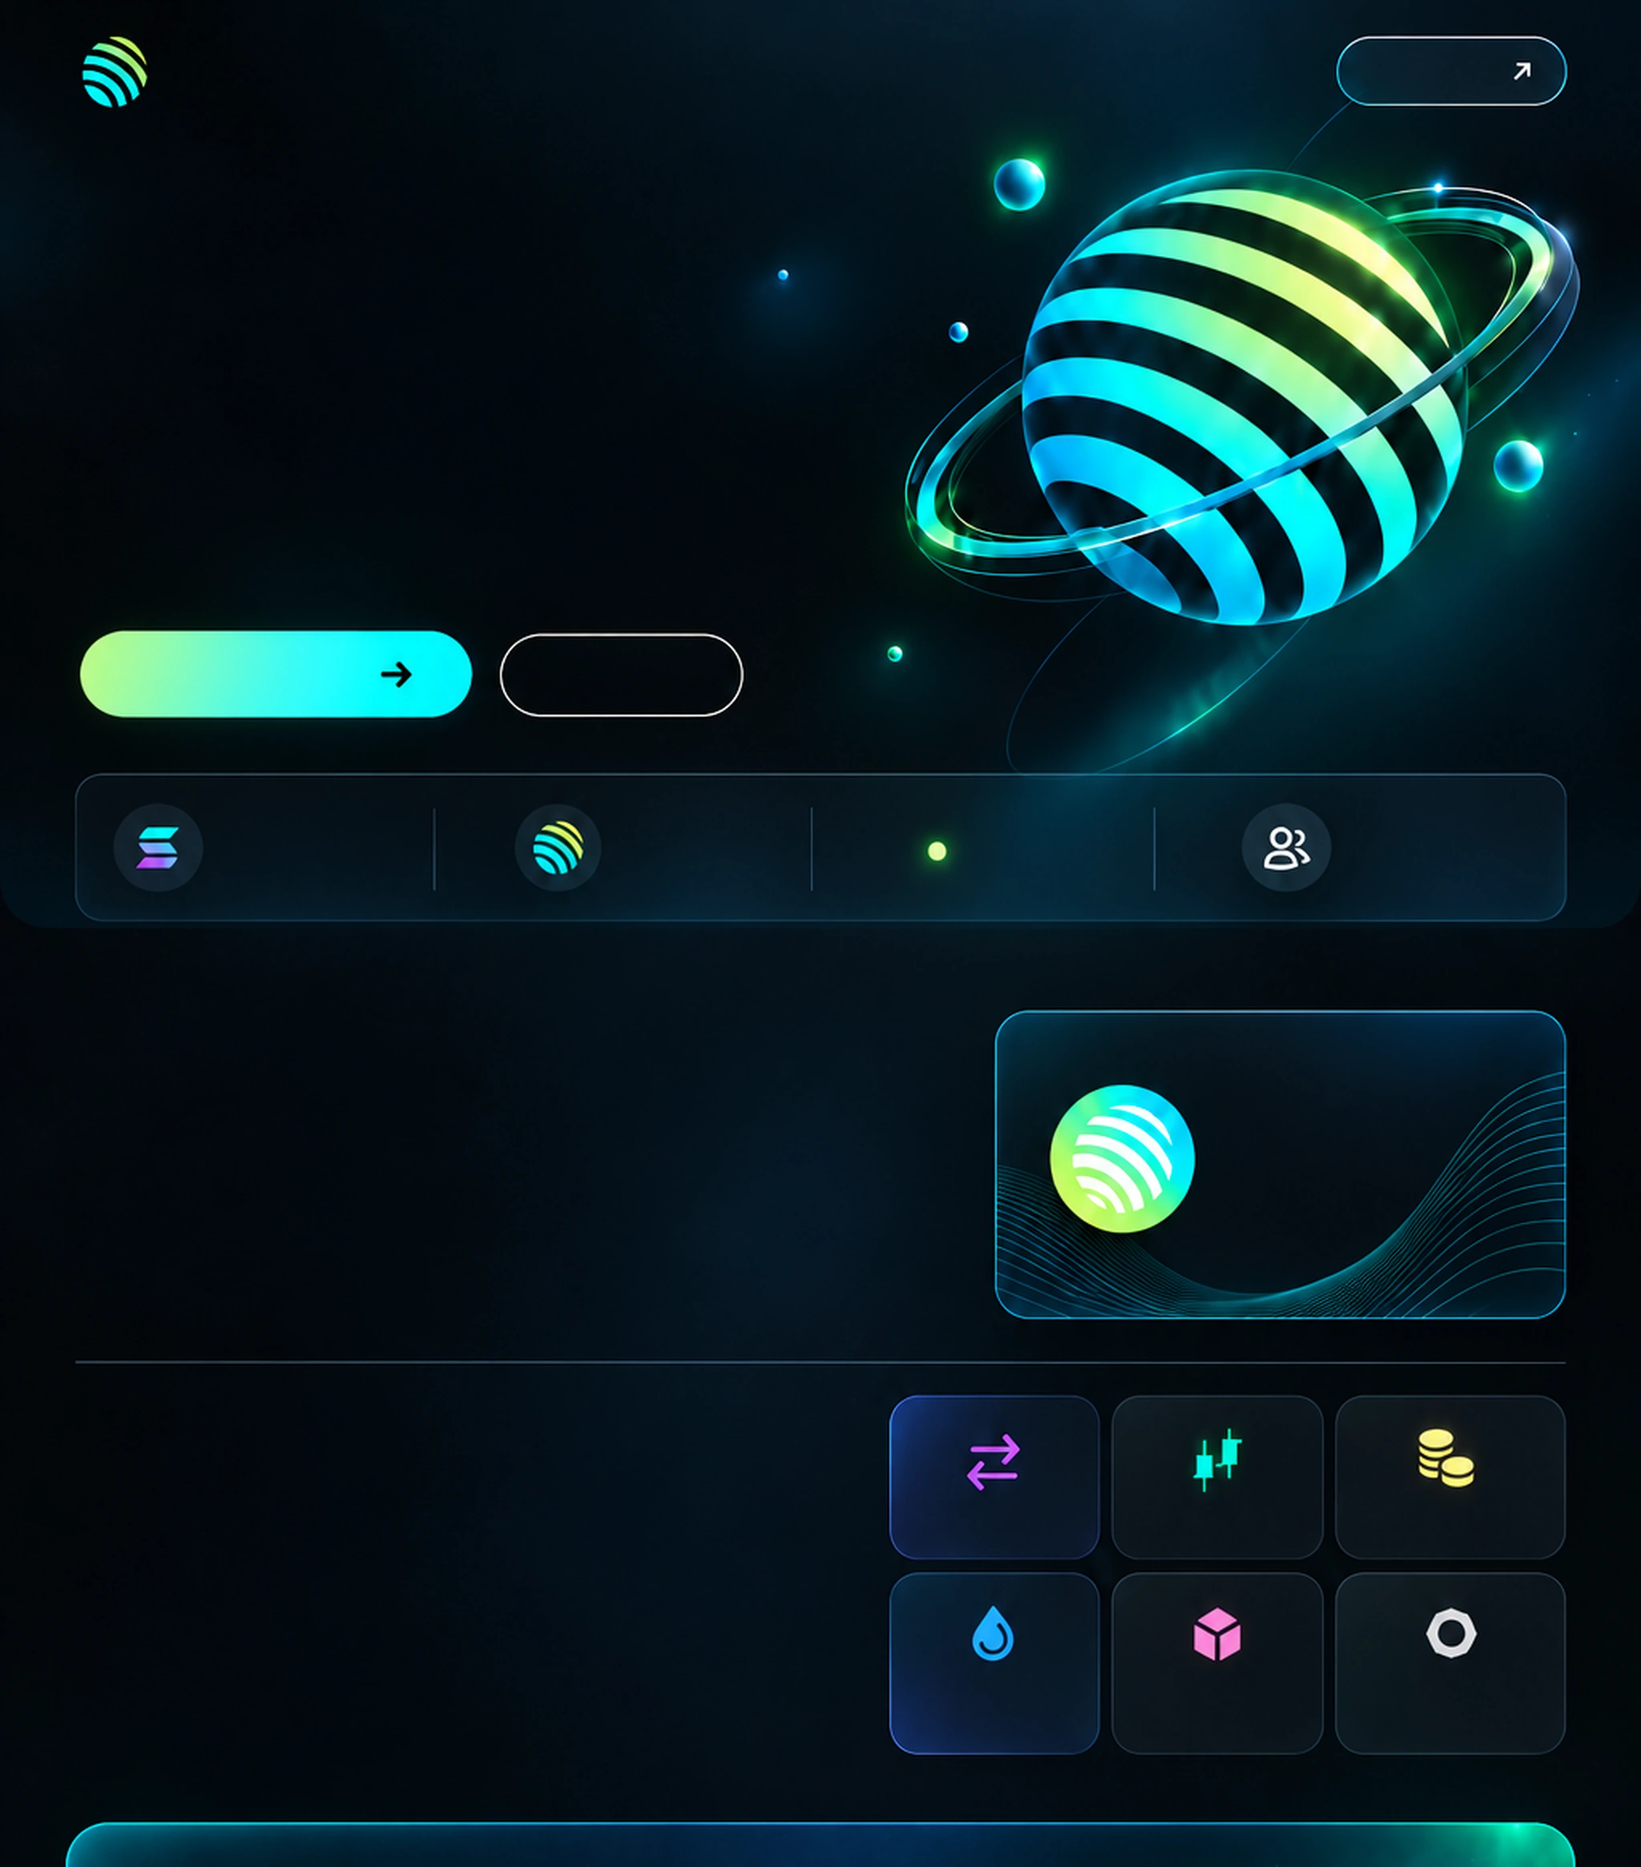
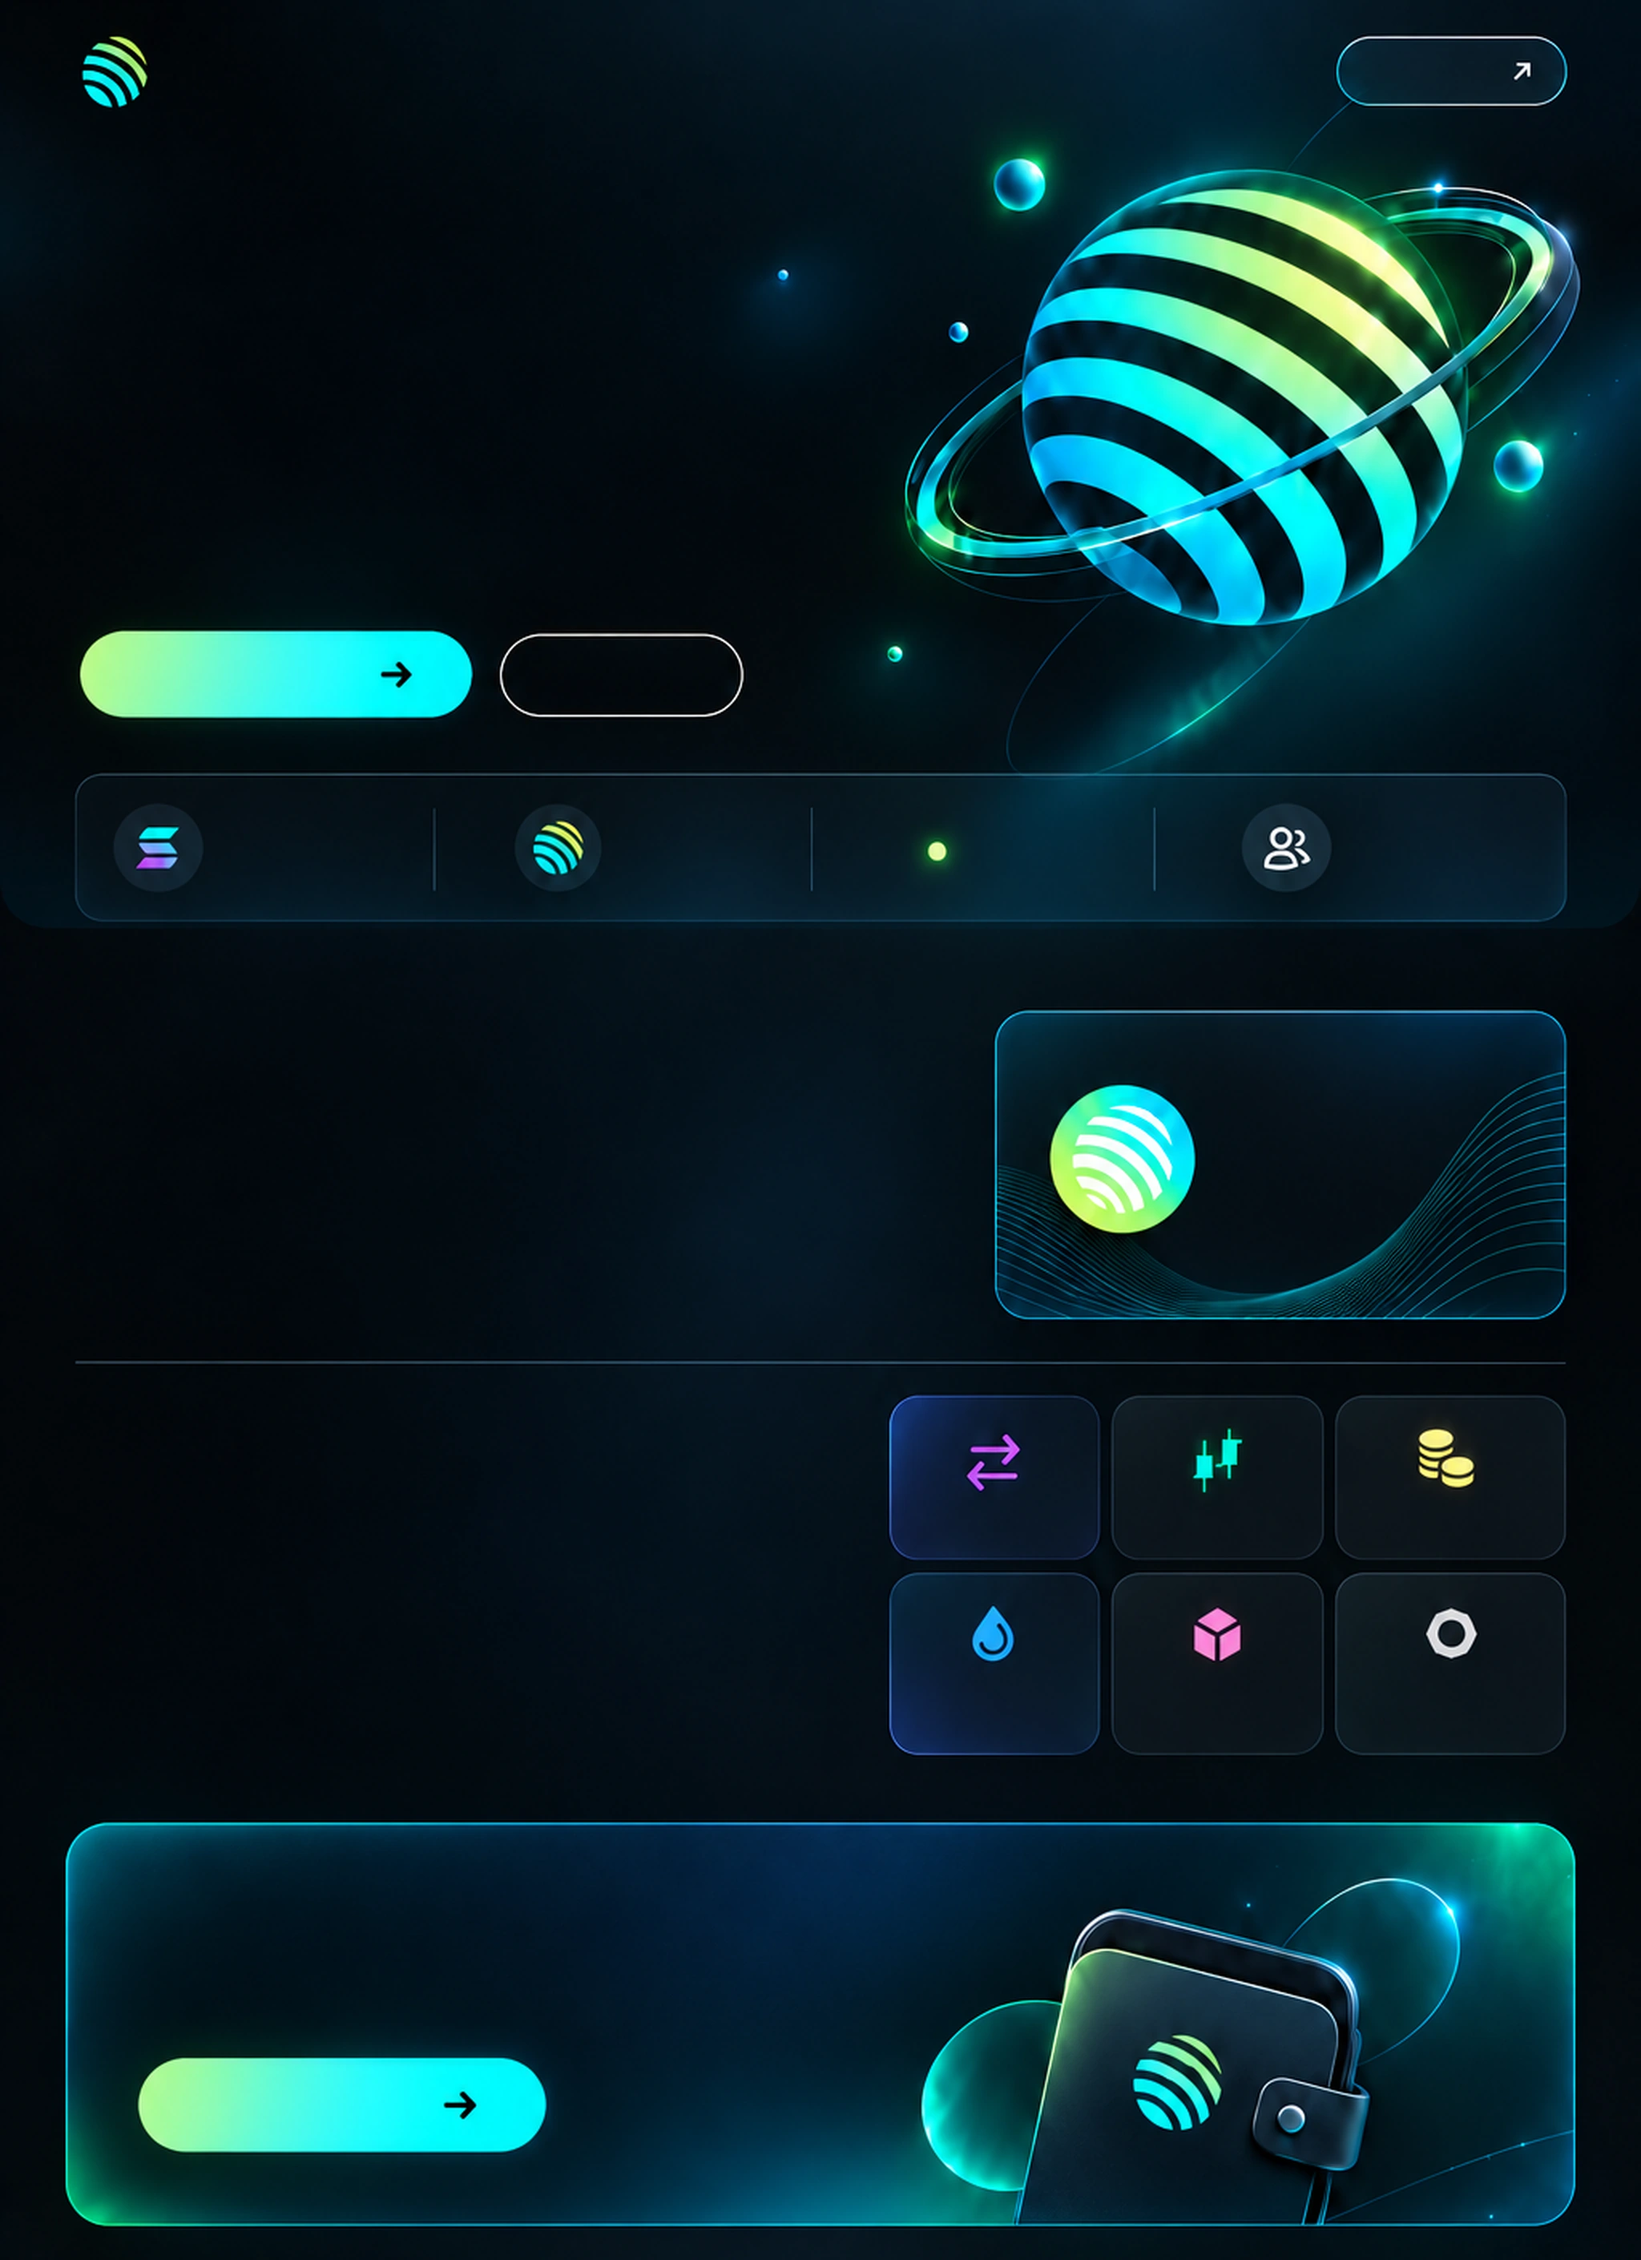
Rendre au bloc Ready to claim sa taille d'origine
La coupure passe desormais a la ligne 1410, dans le fond uni qui separe le
bloc du trait de pied de page. Le bloc retrouve donc ses dimensions de la
maquette, le pied de page reste colle en bas de l'ecran, et la hauteur
restante devient du noir entre les deux.

diff --git a/pages/index.jsx b/pages/index.jsx
@@ -117,10 +117,11 @@ export default function Home() {
         .bloc { position: relative; width: 100%; flex: 0 0 auto; }
         .fond { display: block; width: 100%; height: auto; }
         .calque { position: absolute; top: 0; left: 0; width: 100%; height: 100%; }
-        /* Seule la ligne 1165 de la maquette s'etire ici, celle qui passe juste
-           au-dessus du telephone. Le bloc "Ready to claim" s'allonge donc et le
-           pied de page descend au bas de l'ecran, sans qu'aucun dessin ne soit
-           deforme ni recouvert. Sur un ecran plus court, cette bande disparait. */
+        /* Seule la ligne 1410 de la maquette s'etire ici, prise dans le fond
+           uni qui separe le bloc "Ready to claim" du trait de pied de page.
+           Le pied de page descend donc au bas de l'ecran et le noir s'installe
+           au-dessus de lui, sans qu'aucun dessin ne change de taille.
+           Sur un ecran plus court, cette bande se reduit a rien. */
         .milieu {
           flex: 1 1 auto;
           min-height: 0;
@@ -133,7 +134,7 @@ export default function Home() {
       <div className="page">
       <div className="bloc">
         <img src="/assets/bg-haut.webp" alt="" className="fond" />
-        <svg viewBox="0 0 1024 1165" preserveAspectRatio="xMidYMid meet" className="calque" style={{ fontFamily: POLICE }}>
+        <svg viewBox="0 0 1024 1410" preserveAspectRatio="xMidYMid meet" className="calque" style={{ fontFamily: POLICE }}>
           {/* ---------- EN-TETE ---------- */}
           <Tx x={105} y={54} size={27} weight={700} ls={-0.015}>Jupiter</Tx>
           <Tx x={234} y={51} size={14.5} weight={500} fill={NAV} w={33}>Swap</Tx>
@@ -201,6 +202,14 @@ export default function Home() {
           <Zone x={810} y={20} w={172} h={48} onClick={versJupiter} label="Launch App" />
 
           <image href="/assets/note-built.png" x={838} y={344} width={168} />
+
+          {/* ---------- PRET A RECLAMER ---------- */}
+          <Tx x={87} y={1219} size={45.5} weight={800} w={332}>Ready to claim?</Tx>
+          <Tx x={87} y={1258} size={21} fill={SUB} w={486}>Connect your eligible Solana wallet and claim your JUP now.</Tx>
+          <Tx x={127} y={1320.5} size={19} weight={700} fill={INK} w={130}>Claim your JUP</Tx>
+
+          {/* annotation manuscrite, decoupee de la maquette */}
+          <image href="/assets/note-same.png" x={838} y={1226} width={168} />
         </svg>
       </div>
 
@@ -208,21 +217,13 @@ export default function Home() {
 
       <div className="bloc">
         <img src="/assets/bg-bas.webp" alt="" className="fond" />
-        <svg viewBox="0 1165 1024 371" preserveAspectRatio="xMidYMid meet" className="calque" style={{ fontFamily: POLICE }}>
-          {/* ---------- PRET A RECLAMER ---------- */}
-          <Tx x={87} y={1219} size={45.5} weight={800} w={332}>Ready to claim?</Tx>
-          <Tx x={87} y={1258} size={21} fill={SUB} w={486}>Connect your eligible Solana wallet and claim your JUP now.</Tx>
-          <Tx x={127} y={1320.5} size={19} weight={700} fill={INK} w={130}>Claim your JUP</Tx>
-
+        <svg viewBox="0 1410 1024 126" preserveAspectRatio="xMidYMid meet" className="calque" style={{ fontFamily: POLICE }}>
           {/* ---------- PIED DE PAGE ---------- */}
           <Tx x={103} y={1480} size={22.5} weight={700} ls={-0.015}>Jupiter</Tx>
           <Tx x={196} y={1477.5} size={13.8} fill="#8B96A1" w={151}>Build. Trade. Grow. Together.</Tx>
           <Tx x={819} y={1476.5} size={13.8} fill={FOOT} w={25}>Docs</Tx>
           <Tx x={869} y={1476.5} size={13.8} fill={FOOT} w={41}>Support</Tx>
           <Tx x={936} y={1476.5} size={13.8} fill={FOOT} w={31}>Terms</Tx>
-
-          {/* annotation manuscrite, decoupee de la maquette */}
-          <image href="/assets/note-same.png" x={838} y={1226} width={168} />
         </svg>
       </div>
       </div>
